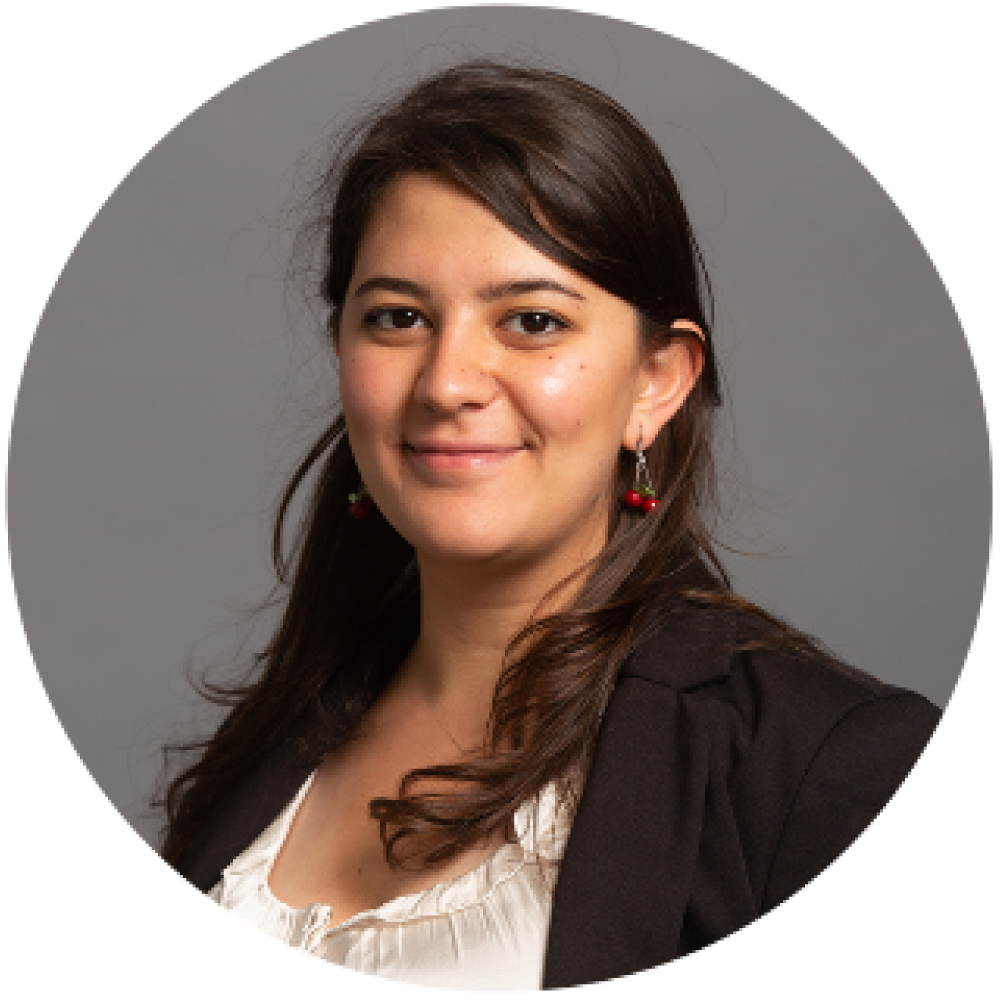
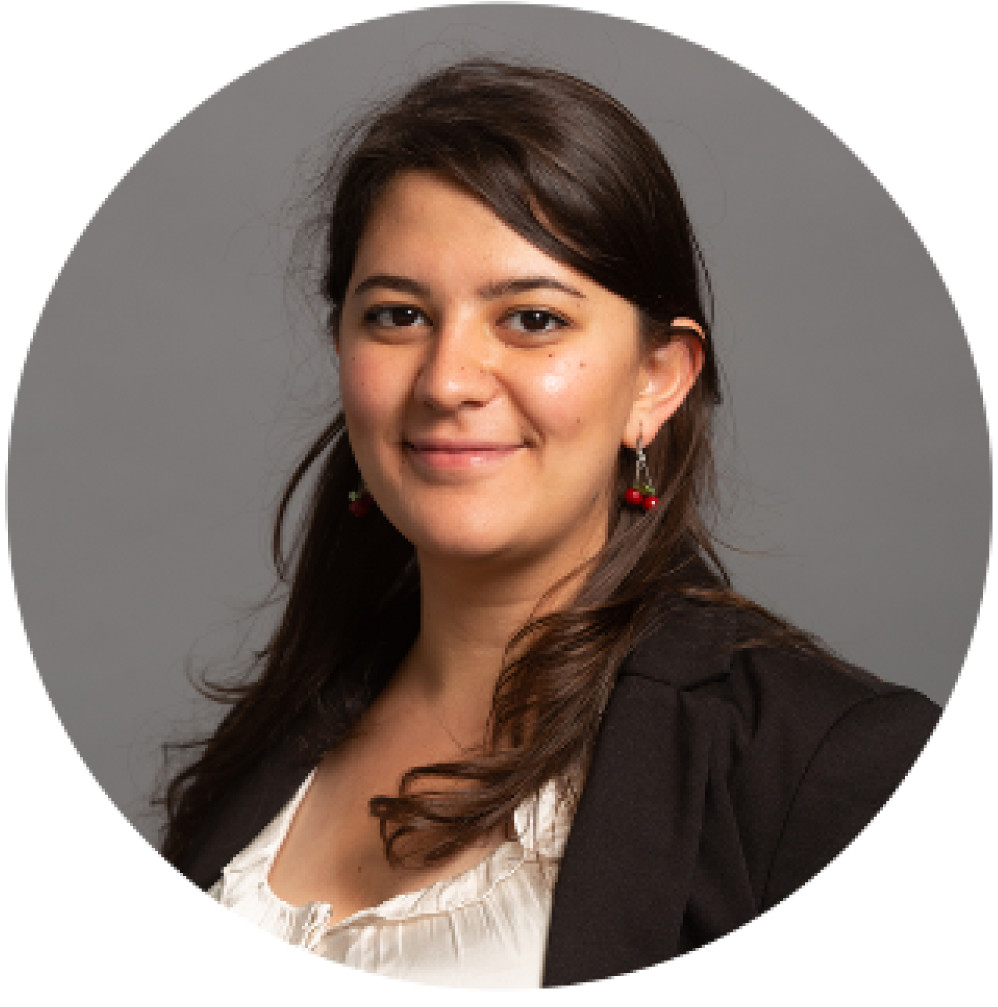
shrink headshot

diff --git a/_includes/cv.md b/_includes/cv.md
@@ -388,7 +388,6 @@ Expression of motility genes is a potentially beneficial but costly process in b
 </table>
 
 ## <i class="fa fa-chevron-right"></i> Invited Talks, and Conferences Presentations
-<ins>Presenters underlined</ins>
 <table class="table table-hover">
 <tr>
   <td class='col-md-1'>2022</td>
